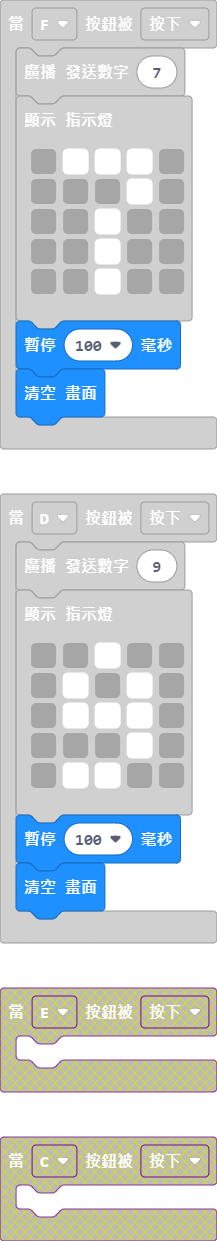
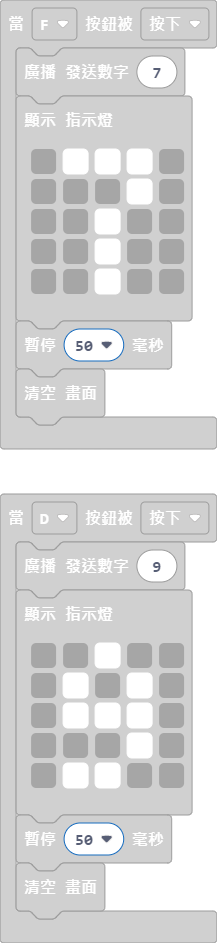
更新 main.blocks, main.ts

diff --git a/main.ts b/main.ts
@@ -7,7 +7,7 @@ KSB045.onBtnChanged(KSB045.btnName.D, KSB045.pushType.down, function () {
         . . . # .
         . # # . .
         `)
-    basic.pause(100)
+    basic.pause(50)
     basic.clearScreen()
 })
 KSB045.onBtnChanged(KSB045.btnName.F, KSB045.pushType.down, function () {
@@ -19,7 +19,7 @@ KSB045.onBtnChanged(KSB045.btnName.F, KSB045.pushType.down, function () {
         . . # . .
         . . # . .
         `)
-    basic.pause(100)
+    basic.pause(50)
     basic.clearScreen()
 })
 radio.setGroup(171)
